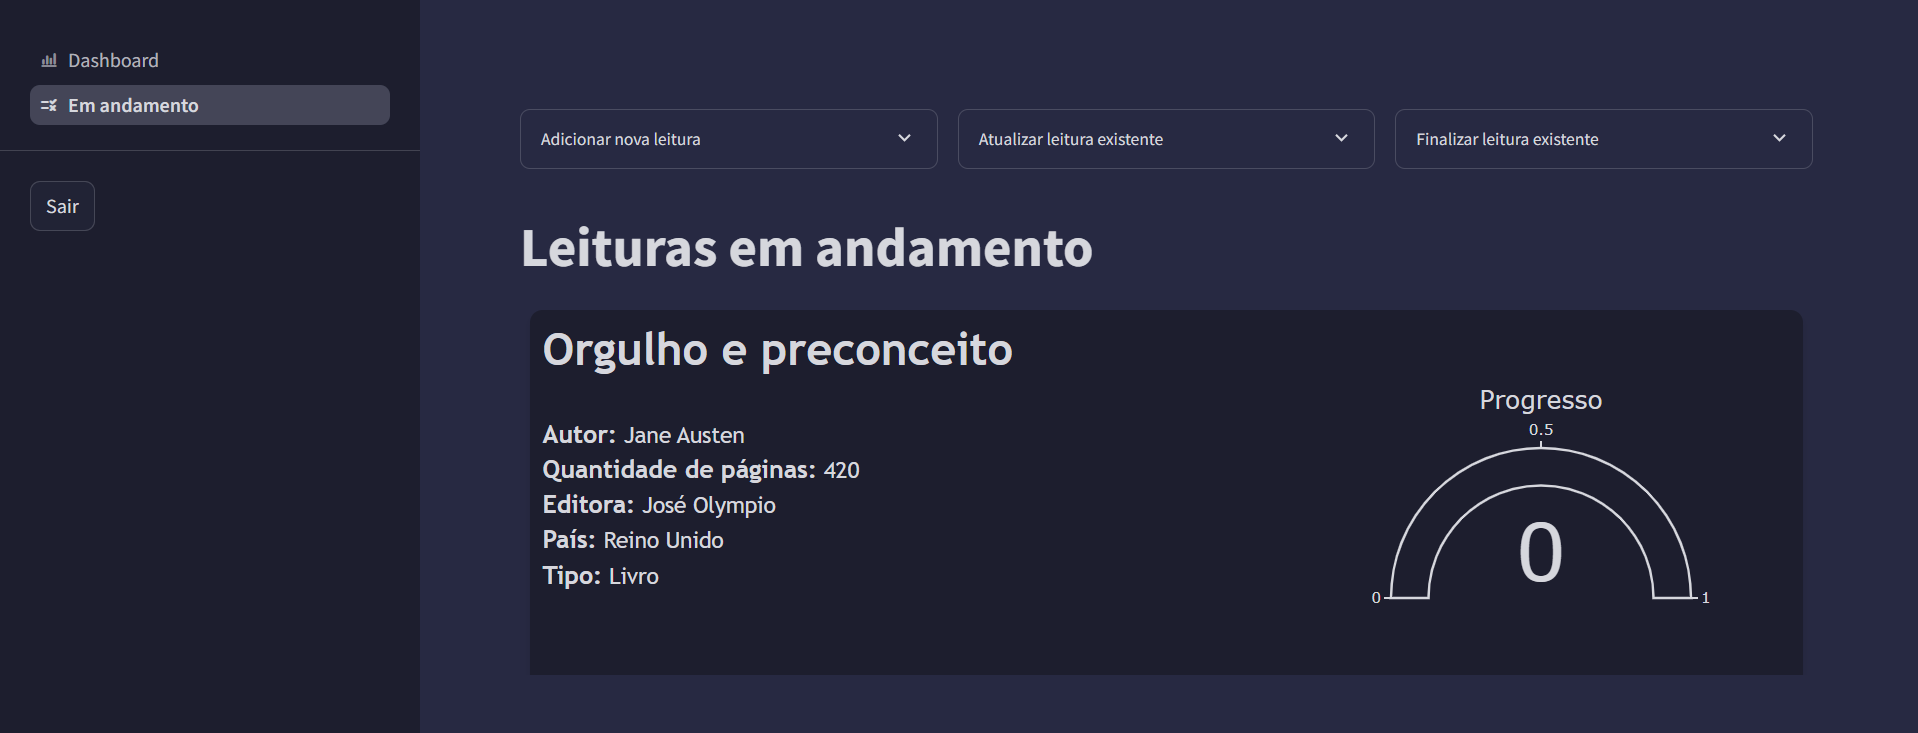
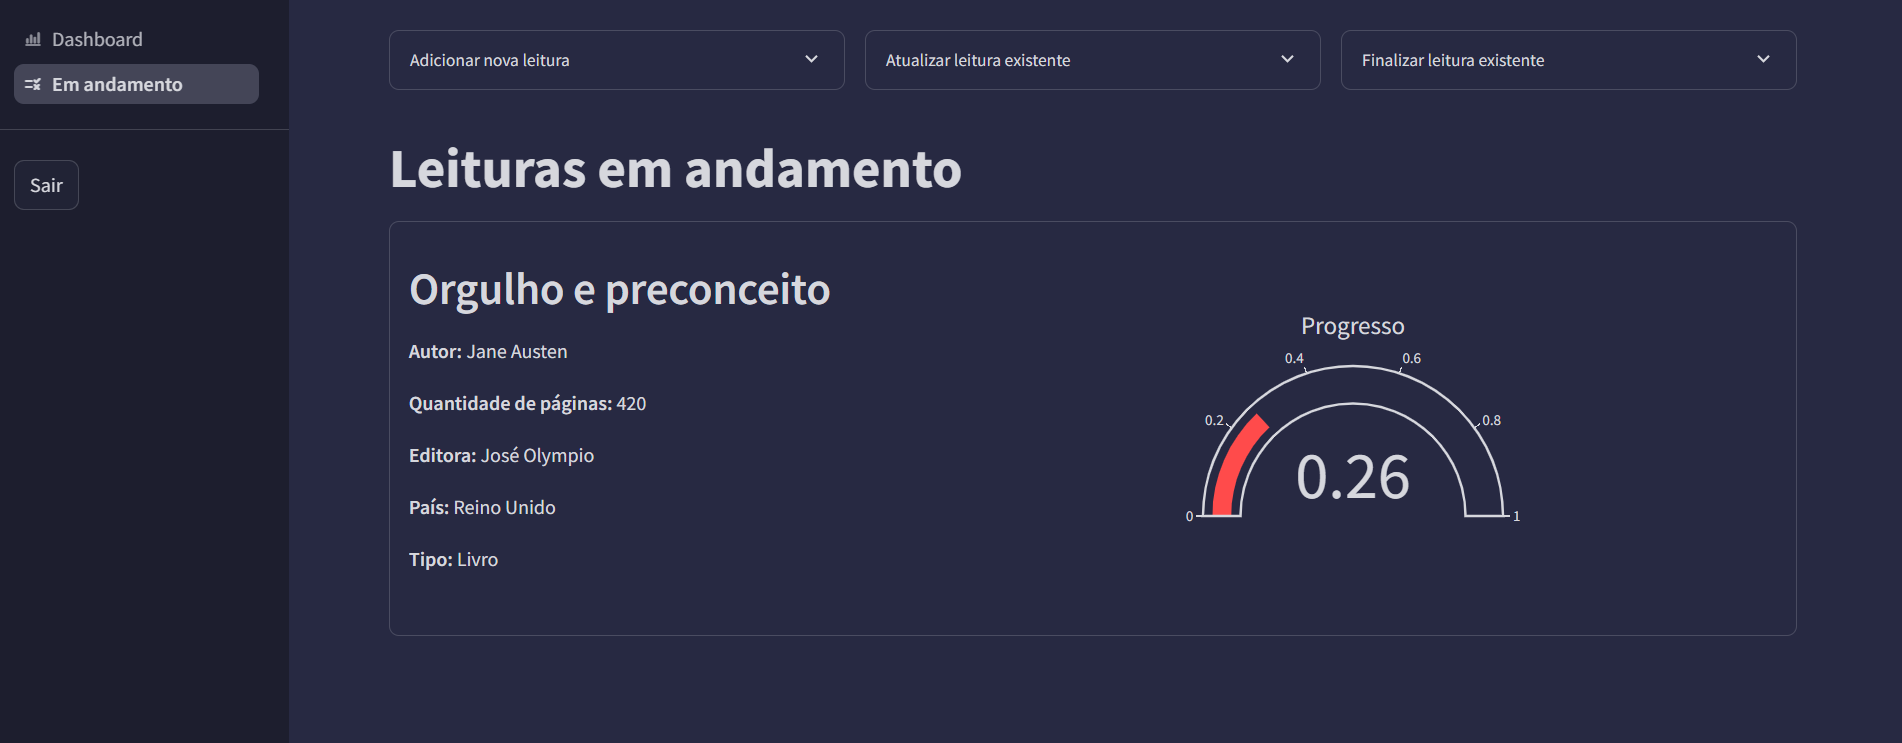
update in progress page and image

diff --git a/src/views/in_progress.py b/src/views/in_progress.py
@@ -2,7 +2,6 @@ from datetime import datetime
 import pandas as pd
 import plotly.graph_objects as go
 import streamlit as st
-from streamlit.components.v1 import html
 
 from src.db import get_all_in_progress_books, insert_in_progress_books, get_all_finished_books, insert_in_finished_books_and_remove_in_progress_books, get_all_countries
 
@@ -110,40 +109,6 @@ with col3:
 
 st.title('Leituras em andamento')
 
-card_style = """
-    <style>
-    .card {
-        background-color: #1d1e2e;
-        border-radius: 10px;
-        padding: 10px;
-        box-shadow: 0px 4px 6px rgba(0, 0, 0, 0.1);
-        margin-bottom: 20px;
-        overflow: hidden;
-        font-family: 'Trebuchet MS', sans-serif;
-        height: 400px;
-        display: flex;
-    }
-    .card h3 {
-        margin-top: 0;
-        font-size: 36px;
-        color: #d6d7dd;
-    }
-    .card p strong {
-        font-size: 20px;
-        color: #d6d7dd;
-    }
-    .card .option {
-        font-size: 18px;
-        color: #d6d7dd;
-        margin: 5px 0;
-    }
-    .card .graph {
-        display: block;
-        margin-left: auto;
-    }
-    </style>
-"""
-
 for i, row in gapb.iterrows():
     fig = go.Figure(go.Indicator(
         mode="gauge+number",
@@ -165,23 +130,20 @@ for i, row in gapb.iterrows():
         width=400,
         height=300
         )
-    fig_html = fig.to_html(full_html=False, include_plotlyjs='cdn')
 
-    card_content = f"""
-    {card_style}
-    <div class="card">
-        <div class="text">
-            <h3>{row.Livro}</h3>
-            <p class="option"><strong>Autor:</strong> {row.Autor}</p>
-            <p class="option"><strong>Quantidade de páginas:</strong> {int(row.QuantidadePaginas)}</p>
-            <p class="option"><strong>Editora:</strong> {row.Editora}</p>
-            <p class="option"><strong>País:</strong> {row.Pais}</p>
-            <p class="option"><strong>Tipo:</strong> {row.Tipo}</p>
-        </div>
-        <div class="graph">
-            {fig_html}
-        </div>
-    </div>
-    """
+    with st.container(border=True):
+        c1, c2 = st.columns(2)
+        m = f'''
+        ## {row.Livro}
+        **Autor:**  {row.Autor}
 
-    html(card_content, height=300)
+        **Quantidade de páginas:**  {int(row.QuantidadePaginas)}
+
+        **Editora:**  {row.Editora}
+
+        **País:**  {row.Pais}
+
+        **Tipo:**  {row.Tipo}
+        '''
+        c1.markdown(m)
+        c2.plotly_chart(fig)
